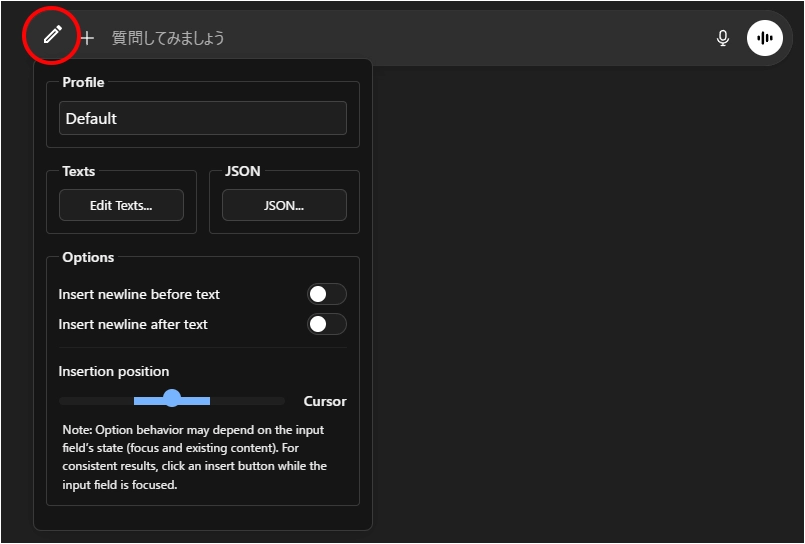
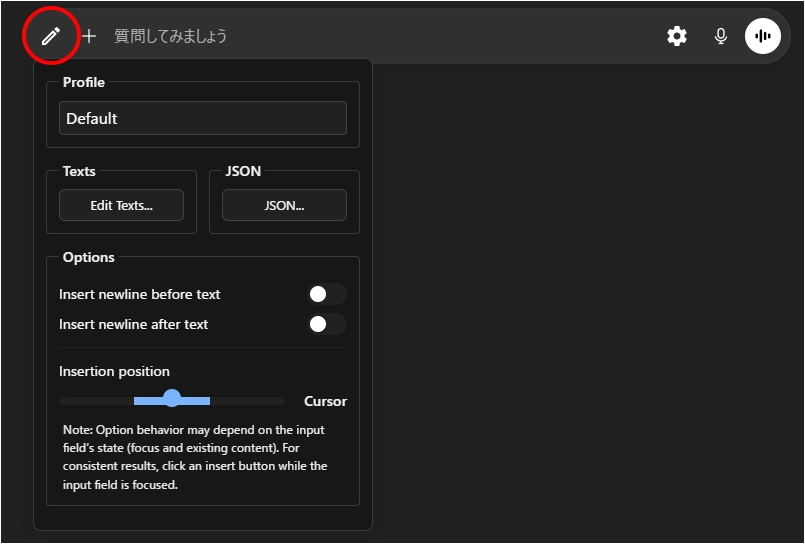
docs: update info for [GPTUX/GGGUX] v2.0.0 / [QTB] v2.0.0

diff --git a/README.md b/README.md
@@ -20,19 +20,16 @@ Each script is developed independently and can be installed separately.
 
 ## Recent Updates
 
+### 2025/11/28
+- Updated `ChatGPT UX Customizer`/`Gemini UX Customizer` (v1.8.0 -> v2.0.0)
+- Updated `Quick Text Buttons` (v1.4.0 -> v2.0.0)
+
 ### 2025/11/24
 - Updated `Quick Text Buttons` (v1.3.0 -> v1.4.0)
 
 ### 2025/11/16
 - Updated `ChatGPT UX Customizer`/`Gemini UX Customizer` (v1.7.2 -> v1.8.0)
 - Updated `Quick Text Buttons` (v1.2.0 -> v1.3.0)
-
-### 2025/11/13
-- Updated `ChatGPT UX Customizer`/`Gemini UX Customizer` (v1.7.1 -> v1.7.2)
-- Updated `ChatGPT UX Customizer`/`Gemini UX Customizer` (v1.7.0 -> v1.7.1)
-
-### 2025/11/10
-- Updated `ChatGPT UX Customizer`/`Gemini UX Customizer` (v1.6.1 -> v1.7.0)
 
 ---
 
@@ -42,15 +39,19 @@ Each script is developed independently and can be installed separately.
 
 A script that adds powerful theme and navigation features. For each chat, you can flexibly customize speaker names, icons, text colors, bubble styles, backgrounds, and standing images.
 
+Click the gear icon ⚙ in the input area to open the settings panel.
+
 | Platform | GitHub | Greasy Fork | Version | Last Updated | Changelog |
 | :--- | :--- | :--- | :--- | :--- | :--- |
-| **ChatGPT** | [![Download](https://img.shields.io/badge/Download-blue?style=flat-square&logo=download)](https://raw.githubusercontent.com/p65536/AI-UX-Customizer/main/scripts/UX-Customizer/ChatGPT-UX-Customizer.user.js) | [![Greasy Fork](https://img.shields.io/badge/Install-green?style=flat-square&logo=greasyfork)](https://greasyfork.org/en/scripts/543703-chatgpt-ux-customizer) | 1.8.0 | 2025/11/16 | [View](./docs/UX-Customizer/CHANGELOG_AIUXC.md) |
-| **Gemini** | [![Download](https://img.shields.io/badge/Download-blue?style=flat-square&logo=download)](https://raw.githubusercontent.com/p65536/AI-UX-Customizer/main/scripts/UX-Customizer/Gemini-UX-Customizer.user.js) | [![Greasy Fork](https://img.shields.io/badge/Install-green?style=flat-square&logo=greasyfork)](https://greasyfork.org/en/scripts/543704-gemini-ux-customizer) | 1.8.0 | 2025/11/16 | [View](./docs/UX-Customizer/CHANGELOG_AIUXC.md) |
+| **ChatGPT** | [![Download](https://img.shields.io/badge/Download-blue?style=flat-square&logo=download)](https://raw.githubusercontent.com/p65536/AI-UX-Customizer/main/scripts/UX-Customizer/ChatGPT-UX-Customizer.user.js) | [![Greasy Fork](https://img.shields.io/badge/Install-green?style=flat-square&logo=greasyfork)](https://greasyfork.org/en/scripts/543703-chatgpt-ux-customizer) | 2.0.0 | 2025/11/28 | [View](./docs/UX-Customizer/CHANGELOG_AIUXC.md) |
+| **Gemini** | [![Download](https://img.shields.io/badge/Download-blue?style=flat-square&logo=download)](https://raw.githubusercontent.com/p65536/AI-UX-Customizer/main/scripts/UX-Customizer/Gemini-UX-Customizer.user.js) | [![Greasy Fork](https://img.shields.io/badge/Install-green?style=flat-square&logo=greasyfork)](https://greasyfork.org/en/scripts/543704-gemini-ux-customizer) | 2.0.0 | 2025/11/28 | [View](./docs/UX-Customizer/CHANGELOG_AIUXC.md) |
 
 **[View Detailed Features & Manual for UX Customizer](./docs/UX-Customizer/README.md)**
 
 ![UX Customizer Showcase Image](./docs/UX-Customizer/images/ux-customizer_showcase.webp)
 ![Advanced Navigation](./docs/UX-Customizer/images/navigation.webp)
+
+**Note:** The pencil icon in the input area belongs to [**Quick Text Buttons (QTB)**](https://github.com/p65536/AI-UX-Customizer/blob/main/docs/Quick-Text-Buttons/README.md), a separate userscript. It allows you to insert predefined text or prompts with a single click. Using QTB alongside UX Customizer provides a highly efficient chat experience.
 
 ---
 
@@ -60,7 +61,7 @@ A utility script that adds buttons to quickly insert predefined text or prompts.
 
 | Platform | GitHub | Greasy Fork | Version | Last Updated | Changelog |
 | :--- | :--- | :--- | :--- | :--- | :--- |
-| **ChatGPT** & **Gemini** | [![Download](https://img.shields.io/badge/Download-blue?style=flat-square&logo=download)](https://raw.githubusercontent.com/p65536/AI-UX-Customizer/main/scripts/Quick-Text-Buttons/Quick-Text-Buttons.user.js) | [![Greasy Fork](https://img.shields.io/badge/Install-green?style=flat-square&logo=greasyfork)](https://greasyfork.org/en/scripts/544699-quick-text-buttons) | 1.4.0 | 2025/11/24 | [View](./docs/Quick-Text-Buttons/CHANGELOG_QTBUX.md) |
+| **ChatGPT** & **Gemini** | [![Download](https://img.shields.io/badge/Download-blue?style=flat-square&logo=download)](https://raw.githubusercontent.com/p65536/AI-UX-Customizer/main/scripts/Quick-Text-Buttons/Quick-Text-Buttons.user.js) | [![Greasy Fork](https://img.shields.io/badge/Install-green?style=flat-square&logo=greasyfork)](https://greasyfork.org/en/scripts/544699-quick-text-buttons) | 2.0.0 | 2025/11/28 | [View](./docs/Quick-Text-Buttons/CHANGELOG_QTBUX.md) |
 
 **[View Detailed Features & Manual for Quick Text Buttons](./docs/Quick-Text-Buttons/README.md)**
 
@@ -92,4 +93,4 @@ MIT License
 
 ## Author
 
-* [p65536](https://github.com/p65536)
+- [p65536](https://github.com/p65536)

diff --git a/docs/UX-Customizer/CHANGELOG_AIUXC.md b/docs/UX-Customizer/CHANGELOG_AIUXC.md
@@ -4,6 +4,41 @@
 > This changelog applies to both **ChatGPT UX Customizer (GPTUX)** and **Gemini UX Customizer (GGGUX)**.
 > Most changes are shared between the two scripts. If a change applies only to one, it will be explicitly marked with a `[GPTUX]` or `[GGGUX]` prefix.
 
+## [2.0.0] - 2025-11-28
+- **New Features**
+  - **Interactive Jump List Preview**: The message preview tooltip in the Navigation Console is now interactive. You can select and copy text directly from the preview without the popup closing unexpectedly.
+    - **Tip:** To quickly select all text within the preview, simply **triple-click** the text.
+  - **[GPTUX]** Added support for **Research Panel** and **Activity Panel**. Standing images are now automatically hidden when these panels are open to prevent visual clutter.
+  - **Relocation**: Moved the settings button to the input area for better accessibility and reduced visual clutter.
+  - **Config Storage Increase**: The maximum configuration size has been increased from 4.8MB to 10MB, providing more space for themes and embedded images.
+    - *Note:* As stated in the README, please remember that embedding large local images is intended primarily for temporary layout verification.
+- **Bug Fixes & Improvements**
+  - **[GPTUX] Avatar Logic**: Refactored avatar injection to be turn-based, improving stability and fixing layout issues with dynamic content like "Thinking" processes.
+  - **[GPTUX] Navigation Fix**: Fixed unexpected scrolling jumps when using navigation buttons on image-only messages.
+  - **[GPTUX] Layout Fix**: Fixed an issue where custom avatars overlapped with **Deep Research** result containers; avatars are now hidden on these reports.
+  - **[GPTUX] Timestamp Positioning**: Improved the positioning and stability of message timestamps.
+  - **[GGGUX] Auto Scroll**: Fixed an issue where the **Auto Scroll** feature failed to trigger on certain chats by introducing a grace period for the initial check.
+  - **Theme Editor**:
+    - Copied themes are now inserted immediately below the selected theme.
+    - Deleting a theme now intelligently selects the adjacent theme instead of selecting the 'Default Settings'.
+  - **UI Stability**:
+    - Fixed an issue where theme styles could persist on excluded pages.
+    - Prevented duplicate insertion of navigation buttons (collapsible, sequential nav, etc.).
+    - Settings save errors (e.g., storage full) are now handled gracefully without unhandled console warnings.
+  - **Responsiveness**: Significantly improved the responsiveness of floating UI elements (Settings button, Navigation console, Standing images) during window resizing and panel transitions using frame-synced updates.
+  - **Smooth Transitions**: Implemented smooth visual tracking for panel transitions (Sidebar, Canvas, File panels), eliminating visual jumps.
+  - **History Navigation**: Improved compatibility with other browser extensions by implementing a safer method for restoring history navigation handlers (`pushState`/`replaceState`).
+- **Performance & Internal**
+  - **Refactored Sentinel Library**: The class now enforces a mandatory `prefix` (utilizing `OWNERID`) during initialization. This ensures distinct CSS animation names, allowing multiple scripts to run simultaneously on the same page without interfering with each other's DOM detection logic.
+    - **Performance**: Switched internal implementation to use the `CSSStyleSheet` API (`insertRule`/`deleteRule`) instead of text manipulation, resulting in cleaner and faster style injection.
+  - **Optimized Message Lookup**: Implemented O(1) lookup in `MessageCacheManager` using a `Map`-based cache, improving performance in long chats.
+  - **Efficient Rendering**: Implemented DOM element caching for the Navigation Console to reduce overhead during updates.
+  - **Modernized Core**: Updated utility functions to use modern browser APIs (`structuredClone`, `crypto.randomUUID`) and standardized internal logic.
+  - **Safer Scrolling**: Refactored scrolling to use standard CSS `scroll-margin-top`, eliminating DOM hacks.
+  - **Robust Lifecycle**: Hardened event listener management and improved the shutdown process for cleaner unloading and better stability on excluded pages.
+  - **Refactored Initialization**: Centralized initialization logic in `ThemeAutomator` and simplified the script entry point.
+  - **Style Tweaks**: Increased avatar icon margin for better visual spacing.
+
 ## [1.8.0] - 2025-11-16
 - **New Features**
   - **[GPTUX]** Added a new **Message Timestamp** feature to display the creation time for each message (enabled by default). This feature intercepts API requests to load historical timestamps and records new ones in real-time.

diff --git a/docs/UX-Customizer/README.md b/docs/UX-Customizer/README.md
@@ -79,6 +79,8 @@ The scripts have been created for each site. Please install the required script.
 
 ![Advanced Navigation](./images/navigation.webp)
 
+**Note:** The pencil icon in the input area belongs to [**Quick Text Buttons (QTB)**](../Quick-Text-Buttons/README.md), a separate userscript. It allows you to insert predefined text or prompts with a single click. Using QTB alongside UX Customizer provides a highly efficient chat experience.
+
 ### 9. Differences between the navigation consoles of GPTUX and GGGUX
 
 ##### GPTUX (for ChatGPT)
@@ -95,7 +97,7 @@ The scripts have been created for each site. Please install the required script.
 
 ## How to Use
 
-- Click the **gear icon** in the upper right corner to **open the Settings Panel**.
+- Click the **gear icon** ⚙ in the input area to **open the settings panel**.
 - From the Settings Panel, you can change various options or **open the Theme Editor (GUI) to create and edit themes**.
 - In the navigation console above the input field, **click on the "Assistant:", "Total:", or "User:" labels** to open the message **Jump List**.
 - If needed, use the "JSON" button to export your current settings or import sample settings.
@@ -182,5 +184,4 @@ MIT License
 
 ## Author
 
-  * [p65536](https://github.com/p65536)
-
+- [p65536](https://github.com/p65536)

diff --git a/docs/Quick-Text-Buttons/CHANGELOG_QTBUX.md b/docs/Quick-Text-Buttons/CHANGELOG_QTBUX.md
@@ -1,5 +1,16 @@
 # Changelog
 
+## [2.0.0] - 2025-11-28
+- **UI & UX Improvements**
+  - **ChatGPT**: Improved layout integration by switching to native positioning, ensuring the button blends perfectly with the interface.
+  - **Gemini**: Refreshed the button design to fully align with Material Design 3 styles.
+  - **Text Editor**: Improved list navigation; deleting an item now selects the next item instead of the previous one for a smoother workflow.
+- **Core Changes**
+  - **Engine Upgrade**: Re-introduced the `Sentinel` engine with significant enhancements, replacing MutationObserver to deliver faster, conflict-free, and more reliable button placement.
+  - Increased the maximum configuration storage limit from 4.8MB to 10MB.
+  - Added automatic retry logic to ensure the button appears correctly even if the target element is temporarily detached.
+  - Optimized configuration handling to automatically discard obsolete settings.
+
 ## [1.4.0] - 2025-11-24
 - **UI Improvements**
   - **Unified Interface**: Merged the Settings and Insert buttons into a single, streamlined control.

diff --git a/docs/Quick-Text-Buttons/README.md b/docs/Quick-Text-Buttons/README.md
@@ -36,6 +36,8 @@ Currently, it supports the following AI services:
 When you hover over the button:  
 ![Text Insertion Menu](./images/qtb_button_hover.webp)
 
+* **Perfect Match:** Works seamlessly with [**UX Customizer**](../UX-Customizer/README.md) to enhance the visual interface and navigation.
+
 ### 2. Settings Panel
 
 When you click the button:  
